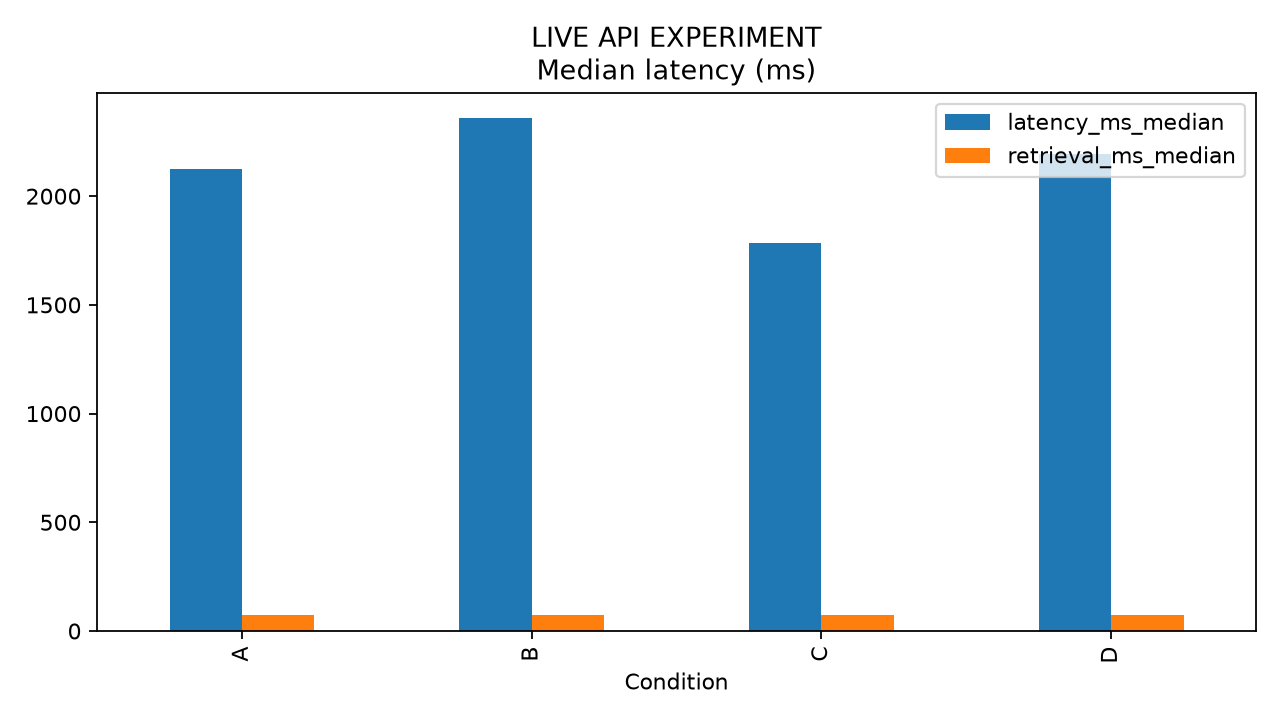
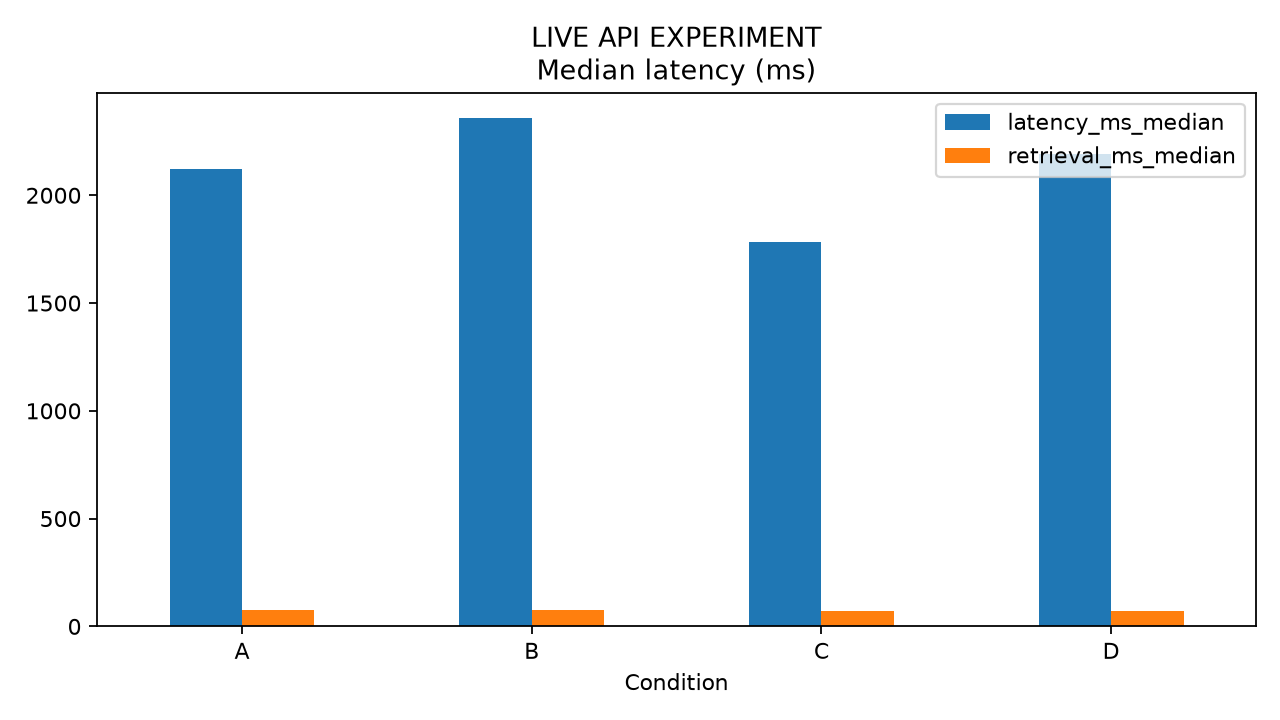
前端图表格式修改

diff --git a/memory_lab/analysis.py b/memory_lab/analysis.py
@@ -111,7 +111,7 @@ def analyze(run_dir: Path):
         plot = result.set_index("condition")[columns].apply(pd.to_numeric, errors="coerce")
         fig, ax = plt.subplots(figsize=(8, 4.5))
         if plot.notna().any().any():
-            plot.plot.bar(ax=ax)
+            plot.plot.bar(ax=ax, rot=0)
         else:
             ax.text(0.5, 0.5, "No evaluable observations", ha="center", transform=ax.transAxes)
         ax.set_title(prefix + "\n" + title)
